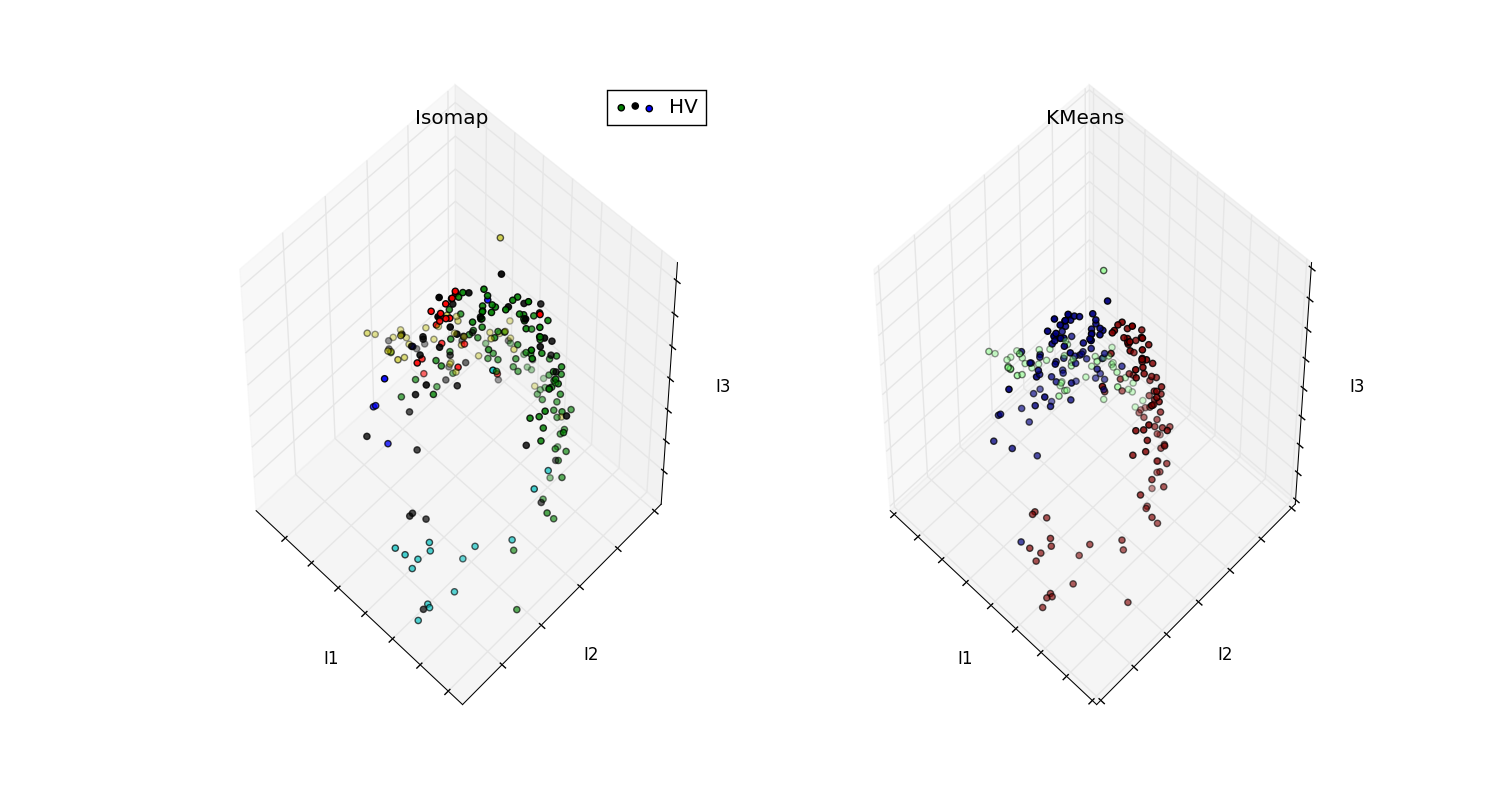
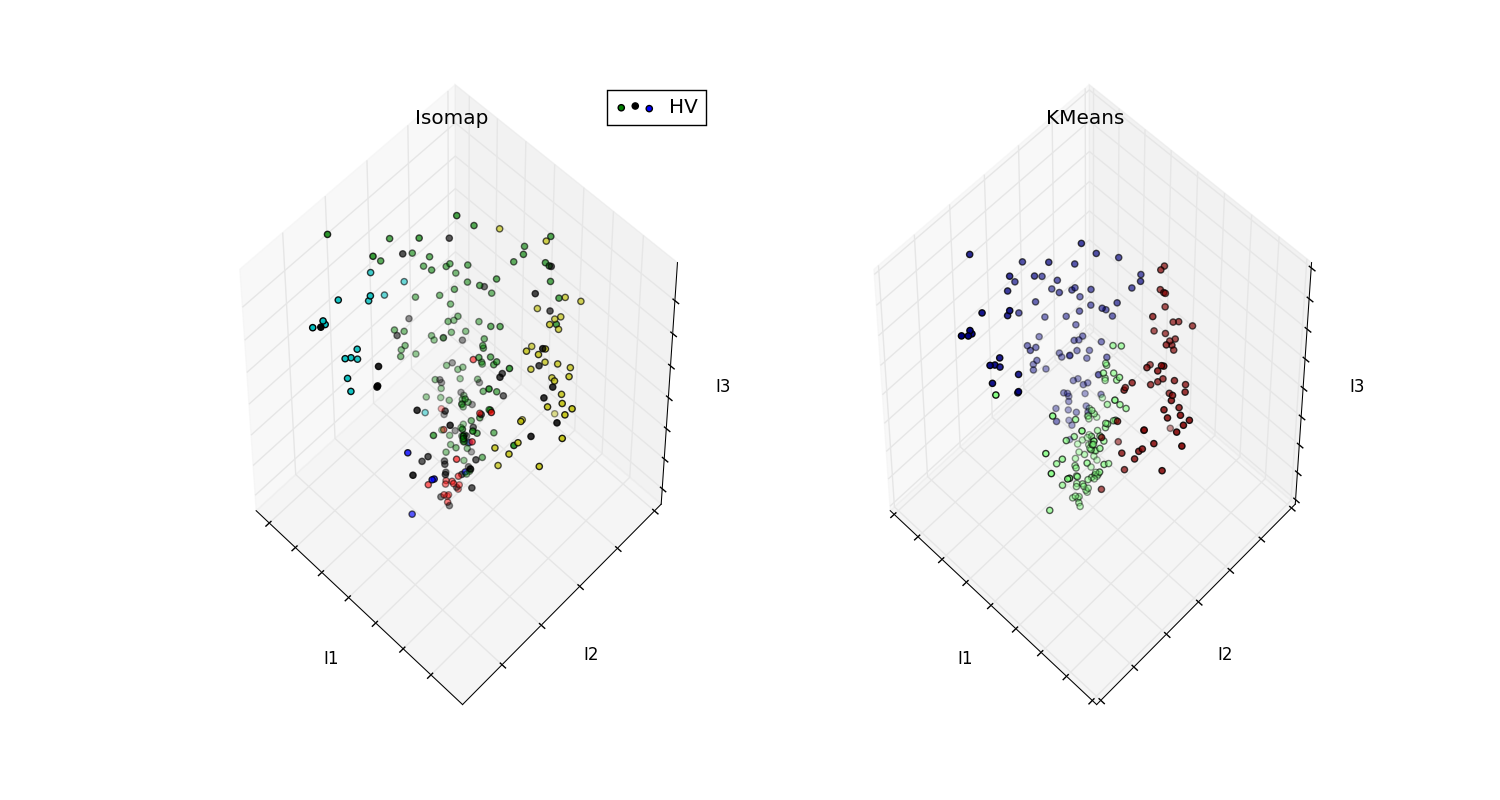
scikit dimension reduction vs clustering comparison

diff --git a/python/tsne/get_clusters.py b/python/tsne/get_clusters.py
@@ -7,7 +7,8 @@ import numpy as np
 import os, sys
 
 import numpy as np
-from sklearn.cluster import KMeans
+from sklearn import metrics
+from sklearn import cluster,neighbors
 from sklearn import manifold, datasets
 
 import sncolor as myc
@@ -18,17 +19,14 @@ Axes3D
 #n_points = 1000
 #X, color = datasets.samples_generator.make_s_curve(n_points, random_state=0)
 
-n_neighbors = 5
-n_components = 2
 
 path1 = '../../empca_trained_coeff/sne.dat'
 path2='../../empca_trained_coeff/coefficients.dat'
-case = 'isomap_vs_kmeans'
 
 # read data
 X = np.loadtxt(path2)
 n_points=len(X[:,0])
-sniter='2e4'
+
 
 #'Branch'
 sne_name = np.loadtxt(path1,dtype=str)
@@ -41,48 +39,106 @@ if not os.path.isdir(figdir):
     os.makedirs(figdir)
 
 
+drmethods=['Isomap','MDS','TSNE']
+cmethods=['KMeans','AffinityPropagation','DBSCAN','AggC']
+
+niter=2000
+sniter='2e3'
 n_neighbors = 5
-n_components = 3
-Y = manifold.Isomap(n_neighbors, n_components).fit_transform(X)
+n_components = 3 #dimension
+n_clusters = len(cm_name['name'])
+
+# Create a graph capturing local connectivity. Larger number of neighbors
+# will give more homogeneous clusters to the cost of computation
+# time. A very large number of neighbors gives more evenly distributed
+# cluster sizes, but may not impose the local manifold structure of
+# the data
+knn_graph = neighbors.kneighbors_graph(X, 30, include_self=False)
+
+for drname in drmethods:
+    for cname in cmethods:
+
+        case = drname+'_vs_'+cname+'_D'+str(n_components)
+        
+        #get dimension Reduced data
+        if drname=='Isomap': Y = manifold.Isomap(n_neighbors, n_components).fit_transform(X)
+        if drname=='MDS': Y = manifold.MDS(n_components, max_iter=niter, n_init=1).fit_transform(X)
+        if drname=='TSNE': Y = manifold.TSNE(n_components=n_components, learning_rate=100,n_iter=niter,perplexity=5,random_state=0).fit_transform(X)
+        
+        #plot dimension reduced data
+        fig = plt.figure(figsize=(15, 8))
+        ax = fig.add_subplot(121, projection='3d', elev=48, azim=134)
+
+        if n_components==3:
+            ax.scatter(Y[:, 0], Y[:, 1], Y[:, 2], c=color)
+        if n_components==2:
+            ax.scatter(Y[:, 0], Y[:, 1], c=color)
+        
+        plt.title(drname)
+        ax.xaxis.set_major_formatter(NullFormatter())
+        ax.yaxis.set_major_formatter(NullFormatter())
+        ax.zaxis.set_major_formatter(NullFormatter())
+        plt.axis('tight')
+        ax.set_xlabel('I1')
+        ax.set_ylabel('I2')
+        ax.set_zlabel('I3')
+        plt.legend(cm_name['name'],loc='best') 
 
 
-fig = plt.figure(figsize=(15, 8))
-ax = fig.add_subplot(121, projection='3d', elev=48, azim=134)
-ax.scatter(Y[:, 0], Y[:, 1],Y[:,2], c=color)
-plt.title("Isomap")
-ax.xaxis.set_major_formatter(NullFormatter())
-ax.yaxis.set_major_formatter(NullFormatter())
-ax.zaxis.set_major_formatter(NullFormatter())
-plt.axis('tight')
-ax.set_xlabel('I1')
-ax.set_ylabel('I2')
-ax.set_zlabel('I3')
-plt.legend(cm_name['name'],loc='best') 
+        #plot clusters
+        if cname=='KMeans':
+            est=cluster.KMeans(n_clusters=n_clusters, n_init=1,init='random').fit(X)
+            labels = est.labels_
+            nout_clusters_=n_clusters
+        if cname=='AffinityPropagation':
+            est=cluster.AffinityPropagation(preference=-50).fit(X)
+            cluster_centers_indices = est.cluster_centers_indices_
+            nout_clusters_ = len(cluster_centers_indices)
+            labels = est.labels_
+        if cname=='DBSCAN':
+            # Compute DBSCAN
+            est = cluster.DBSCAN(eps=0.3, min_samples=3,algorithm='kd_tree').fit(X)
+            # Number of clusters in labels, ignoring noise if present.
+            n_clusters_ = len(set(labels)) - (1 if -1 in labels else 0)
+            core_samples_mask = np.zeros_like(est.labels_, dtype=bool)
+            core_samples_mask[est.core_sample_indices_] = True
+            labels = est.labels_
+            # Number of clusters in labels, ignoring noise if present.
+            nout_clusters_ = len(set(labels)) - (1 if -1 in labels else 0)
+        if cname=='AggC':
+            est=cluster.AgglomerativeClustering(connectivity=knn_graph,n_clusters=n_clusters, affinity='euclidean').fit(X)
+            labels = est.labels_
+            nout_clusters_=n_clusters
 
-#'k_means_iris_3': KMeans(n_clusters=3),
-#              'k_means_iris_8': KMeans(n_clusters=8),
-              
-estimators = {'k_means_iris_bad_init': KMeans(n_clusters=3, n_init=1,
-                                              init='random')}
-
-
-for name, est in estimators.items():
-    ax = fig.add_subplot(122, projection='3d', elev=48, azim=134)
+        print('Method Clustering method: %s' % cname)
+        print('Estimated number of clusters: %d' % nout_clusters_)
+        # print("Homogeneity: %0.3f" % metrics.homogeneity_score(labels_true, labels))
+        # print("Completeness: %0.3f" % metrics.completeness_score(labels_true, labels))
+        # print("V-measure: %0.3f" % metrics.v_measure_score(labels_true, labels))
+        # print("Adjusted Rand Index: %0.3f"
+        #       % metrics.adjusted_rand_score(labels_true, labels))
+        # print("Adjusted Mutual Information: %0.3f"
+        #       % metrics.adjusted_mutual_info_score(labels_true, labels))
+        # print("Silhouette Coefficient: %0.3f"
+        #       % metrics.silhouette_score(X, labels))
     
-    est.fit(X)
-    labels = est.labels_
+        ax = fig.add_subplot(122, projection='3d', elev=48, azim=134)
 
-    ax.scatter(Y[:, 0], Y[:, 1], Y[:, 2], c=labels.astype(np.float))
-    plt.title("KMeans")    
-    ax.w_xaxis.set_ticklabels([])
-    ax.w_yaxis.set_ticklabels([])
-    ax.w_zaxis.set_ticklabels([])
-    ax.set_xlabel('I1')
-    ax.set_ylabel('I2')
-    ax.set_zlabel('I3')
+        if n_components==3:
+            ax.scatter(Y[:, 0], Y[:, 1], Y[:, 2], c=labels.astype(np.float))
+        if n_components==2:
+            ax.scatter(Y[:, 0], Y[:, 1], c=labels.astype(np.float))
+            
+        plt.title(cname+': Number of clusters: %d' % nout_clusters_)    
+        ax.w_xaxis.set_ticklabels([])
+        ax.w_yaxis.set_ticklabels([])
+        ax.w_zaxis.set_ticklabels([])
+        ax.set_xlabel('I1')
+        ax.set_ylabel('I2')
+        ax.set_zlabel('I3')
 
 
-plt.savefig(figdir+'/plot_'+case+'_'+leg_type+'_niter'+sniter+'.png')
+        plt.savefig(figdir+'/plot_'+case+'_'+leg_type+'_niter'+sniter+'.png')
 
 # kmeans_model = KMeans(n_clusters=3, random_state=1).fit(X)
 # labels = kmeans_model.labels_

diff --git a/python/tsne/kmeans_example.py b/python/tsne/kmeans_example.py
@@ -1,0 +1,102 @@
+print(__doc__)
+
+from time import time
+import numpy as np
+import matplotlib.pyplot as plt
+
+from sklearn import metrics
+from sklearn.cluster import KMeans
+from sklearn.datasets import load_digits
+from sklearn.decomposition import PCA
+from sklearn.preprocessing import scale
+
+np.random.seed(42)
+
+digits = load_digits()
+data = scale(digits.data)
+
+n_samples, n_features = data.shape
+n_digits = len(np.unique(digits.target))
+labels = digits.target
+
+sample_size = 300
+
+print("n_digits: %d, \t n_samples %d, \t n_features %d"
+            % (n_digits, n_samples, n_features))
+
+
+print(79 * '_')
+print('% 9s' % 'init'
+            '    time  inertia    homo   compl  v-meas     ARI AMI  silhouette')
+
+
+def bench_k_means(estimator, name, data):
+    t0 = time()
+    estimator.fit(data)
+    print('% 9s   %.2fs    %i   %.3f   %.3f   %.3f   %.3f   %.3f    %.3f'
+          % (name, (time() - t0), estimator.inertia_,
+             metrics.homogeneity_score(labels, estimator.labels_),
+             metrics.completeness_score(labels, estimator.labels_),
+             metrics.v_measure_score(labels, estimator.labels_),
+             metrics.adjusted_rand_score(labels, estimator.labels_),
+             metrics.adjusted_mutual_info_score(labels,  estimator.labels_),
+             metrics.silhouette_score(data, estimator.labels_,
+                                      metric='euclidean',
+                                      sample_size=sample_size)))
+
+bench_k_means(KMeans(init='k-means++', n_clusters=n_digits, n_init=10),
+              name="k-means++", data=data)
+
+bench_k_means(KMeans(init='random', n_clusters=n_digits, n_init=10),
+              name="random", data=data)
+
+# in this case the seeding of the centers is deterministic, hence we run the
+# kmeans algorithm only once with n_init=1
+pca = PCA(n_components=n_digits).fit(data)
+bench_k_means(KMeans(init=pca.components_, n_clusters=n_digits, n_init=1),
+              name="PCA-based",
+              data=data)
+print(79 * '_')
+
+###############################################################################
+# Visualize the results on PCA-reduced data
+
+reduced_data = PCA(n_components=2).fit_transform(data)
+kmeans = KMeans(init='k-means++', n_clusters=n_digits, n_init=10)
+kmeans.fit(reduced_data)
+
+# Step size of the mesh. Decrease to increase the quality of the VQ.
+h = .02     # point in the mesh [x_min, m_max]x[y_min, y_max].
+
+# Plot the decision boundary. For that, we will assign a color to each
+x_min, x_max = reduced_data[:, 0].min() + 1, reduced_data[:, 0].max() - 1
+y_min, y_max = reduced_data[:, 1].min() + 1, reduced_data[:, 1].max() - 1
+xx, yy = np.meshgrid(np.arange(x_min, x_max, h), np.arange(y_min, y_max, h))
+
+# Obtain labels for each point in mesh. Use last trained model.
+Z = kmeans.predict(np.c_[xx.ravel(), yy.ravel()])
+
+# Put the result into a color plot
+Z = Z.reshape(xx.shape)
+plt.figure(1)
+plt.clf()
+plt.imshow(Z, interpolation='nearest',
+                      extent=(xx.min(), xx.max(), yy.min(), yy.max()),
+                      cmap=plt.cm.Paired,
+                      aspect='auto', origin='lower')
+
+plt.plot(reduced_data[:, 0], reduced_data[:, 1], 'k.', markersize=2)
+
+
+# Plot the centroids as a white X
+centroids = kmeans.cluster_centers_
+      plt.scatter(centroids[:, 0], centroids[:, 1],
+            marker='x', s=169, linewidths=3,
+            color='w', zorder=10)
+plt.title('K-means clustering on the digits dataset (PCA-reduced data)\n'
+          'Centroids are marked with white cross')
+          plt.xlim(x_min, x_max)
+          plt.ylim(y_min, y_max)
+plt.xticks(())
+plt.yticks(())
+plt.show()
